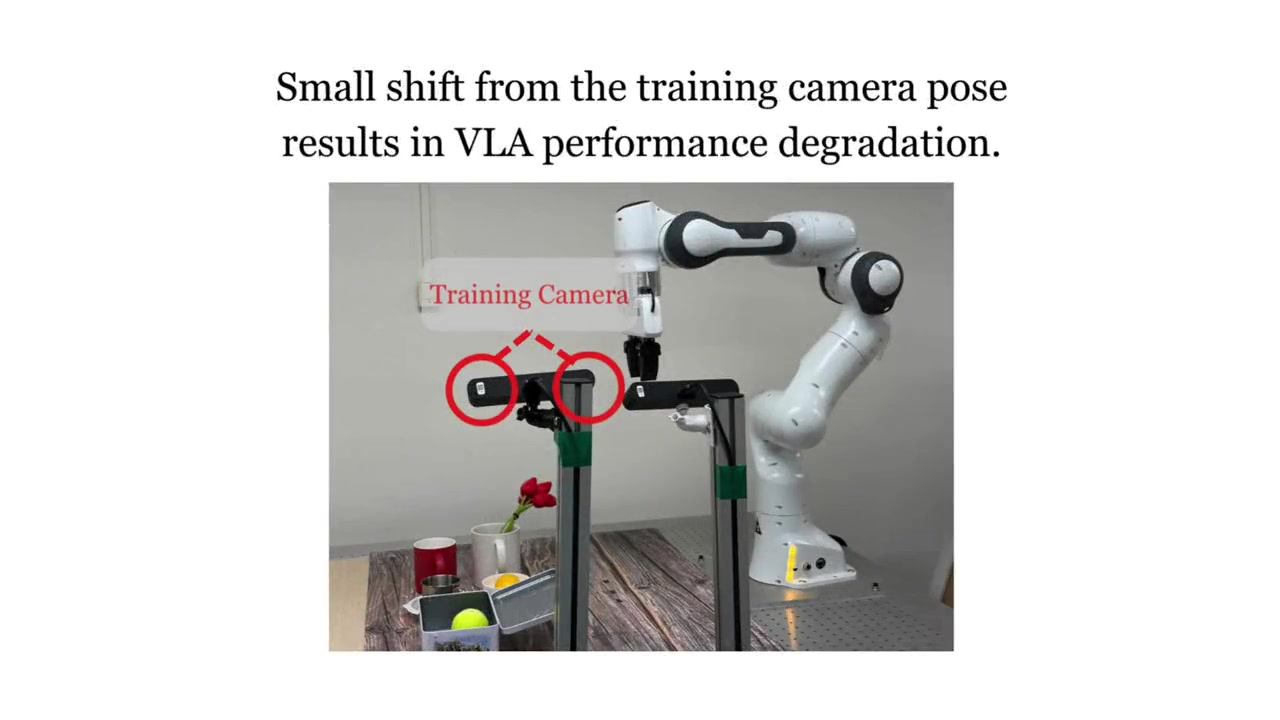
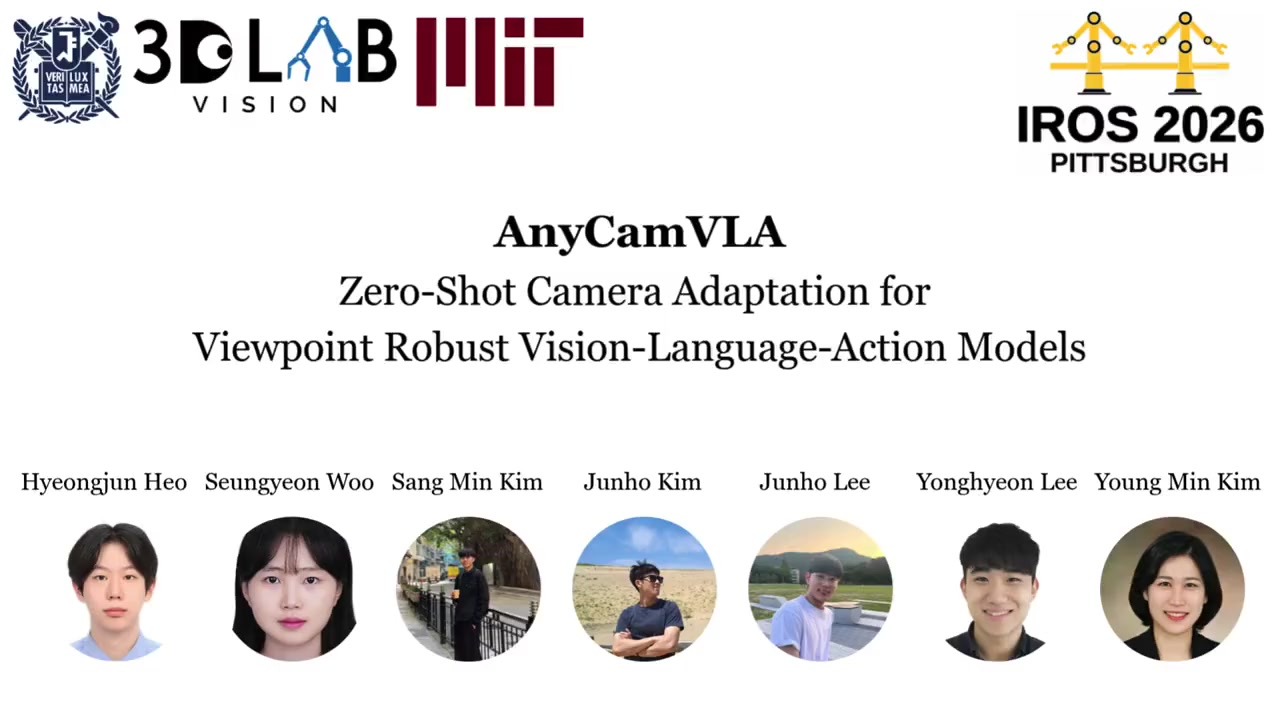
Style changed

diff --git a/index.html b/index.html
@@ -40,15 +40,12 @@
       <div class="hero-body">
         <div class="container is-max-widescreen has-text-centered">
           <!-- title -->
-          <h1 class="title is-size-1 is-size-2-mobile publication-title">
-            <span style="display: block; font-size: 1.2em;">
-              <img src="./assets/camera_switch_96dp.png" alt="icon" style="width: 56px; vertical-align: middle; margin-right: 8px;">
-              AnyCamVLA:
+          <h1 class="title publication-title" style="font-size: clamp(1.85rem, 3vw, 2.2rem); line-height: 1.2;">
+            <span style="display: block;">
+              <img src="./assets/camera_switch_96dp.png" alt="icon" style="width: 0.92em; vertical-align: middle; margin-right: 0.18em;">
+              AnyCamVLA: Zero-Shot Camera Adaptation for Viewpoint
             </span>
-            <span style="display: block; font-size: 0.75em;">
-              Zero-Shot Camera Adaptation for Viewpoint
-            </span>
-            <span style="display: block; font-size: 0.75em;">
+            <span style="display: block;">
               Robust Vision-Language-Action Models
             </span>
           </h1>
@@ -58,7 +55,7 @@
 
           <!-- authors -->
           <div class="container is-max-desktop has-text-centered author-list">
-            <div class="is-size-6-tablet publication-authors" style="display: flex; justify-content: center; align-items: center; flex-wrap: wrap; gap: 1rem;">
+            <div class="is-size-6-tablet publication-authors" style="display: flex; justify-content: center; align-items: center; flex-wrap: wrap; gap: 0.4rem 1rem;">
               <span class="author-blocks"><a href="https://heo0224.github.io/" style="color: inherit;">Hyeongjun Heo<sup>1</sup></a></span>
               <span class="author-blocks">Seungyeon Woo<sup>1</sup></span>
               <span class="author-blocks"><a href="https://sangminkim-99.github.io/" style="color: inherit;">Sang Min Kim<sup>1</sup></a></span>
@@ -69,27 +66,11 @@
             </div>
           </div>
 
-          <div class="is-size-6-tablet publication-authors" style="display: flex; justify-content: center; align-items: center; flex-wrap: wrap; gap: 2rem;">
+          <div class="is-size-6-tablet publication-authors" style="display: flex; justify-content: center; align-items: center; flex-wrap: wrap; gap: 0.3rem 2rem;">
             <span style="white-space: nowrap;">Seoul National University<sup>1</sup></span>
             <span style="white-space: nowrap;">Massachusetts Institute of Technology<sup>2</sup></span>
           </div>
 
-          <div class="logo-list">
-            <a class="lab-logo" href="https://3d.snu.ac.kr">
-              <img src="./assets/3dv.png">
-            </a>
-            <span class="affiliation-num">
-              1
-            </span>
-            <a class="lab-logo">
-              <img src="./assets/MIT_logo.png">
-            </a>
-            <span class="affiliation-num-right">
-              2
-            </span>
-          </div>
-          
-          
           <!-- icons -->
           <div class="is-size-5 link-blocks">
             <a class="button link-button is-rounded" href="https://arxiv.org/pdf/2603.05868">
@@ -114,8 +95,8 @@
 
           <!-- Overview video: motivation, method, and real-world results -->
           <div class="container is-max-desktop">
-            <video src="./assets/videos/AnycamVLA.mp4?v=2#t=2.7" controls playsinline preload="metadata"
-                   poster="./assets/images/anycamvla_poster.jpg?v=2"
+            <video src="./assets/videos/AnycamVLA.mp4?v=2" controls playsinline preload="metadata"
+                   poster="./assets/images/anycamvla_poster.jpg?v=3"
                    style="display:block;margin:1.8rem auto 0;width:100%;max-width:900px;border-radius:10px;">
               Your browser does not support the video tag.
             </video>

diff --git a/css/styles.css b/css/styles.css
@@ -4,8 +4,11 @@ html, body {
   max-width: 100%;
 }
 
+html { scroll-behavior: smooth; }
+
 .hero {
   margin-bottom: -50px;  /* Adjust space below this section */
+  background: radial-gradient(1100px 380px at 50% -12%, #edf0fb 0%, rgba(237, 240, 251, 0) 72%);
 }
 
 .section {
@@ -133,12 +136,15 @@ html, body {
   margin-left: 0.1rem;
   margin-right: 0.1rem;
   margin-bottom: 0.5rem;
+  transition: transform 0.16s ease, box-shadow 0.16s ease, background-color 0.16s ease;
 }
 
 .link-button:hover {
   color: #f5f5f5;
-  background-color: #143163;
-  border-color: #143163;
+  background-color: #1c3f7e;
+  border-color: #1c3f7e;
+  transform: translateY(-2px);
+  box-shadow: 0 7px 18px rgba(20, 49, 99, 0.30);
 }
 
 .bibtex-box {
@@ -431,6 +437,14 @@ html, body {
   overflow-x: auto;
   white-space: pre;
   position: relative;
+}
+/* Match BibTeX text colour to the rest of the page (override Bulma's red <code>) */
+.bibtex-box code {
+  color: #363636;
+  background: transparent;
+  font-family: inherit;
+  font-size: inherit;
+  padding: 0;
 }
 .copy-btn {
   position: absolute;
